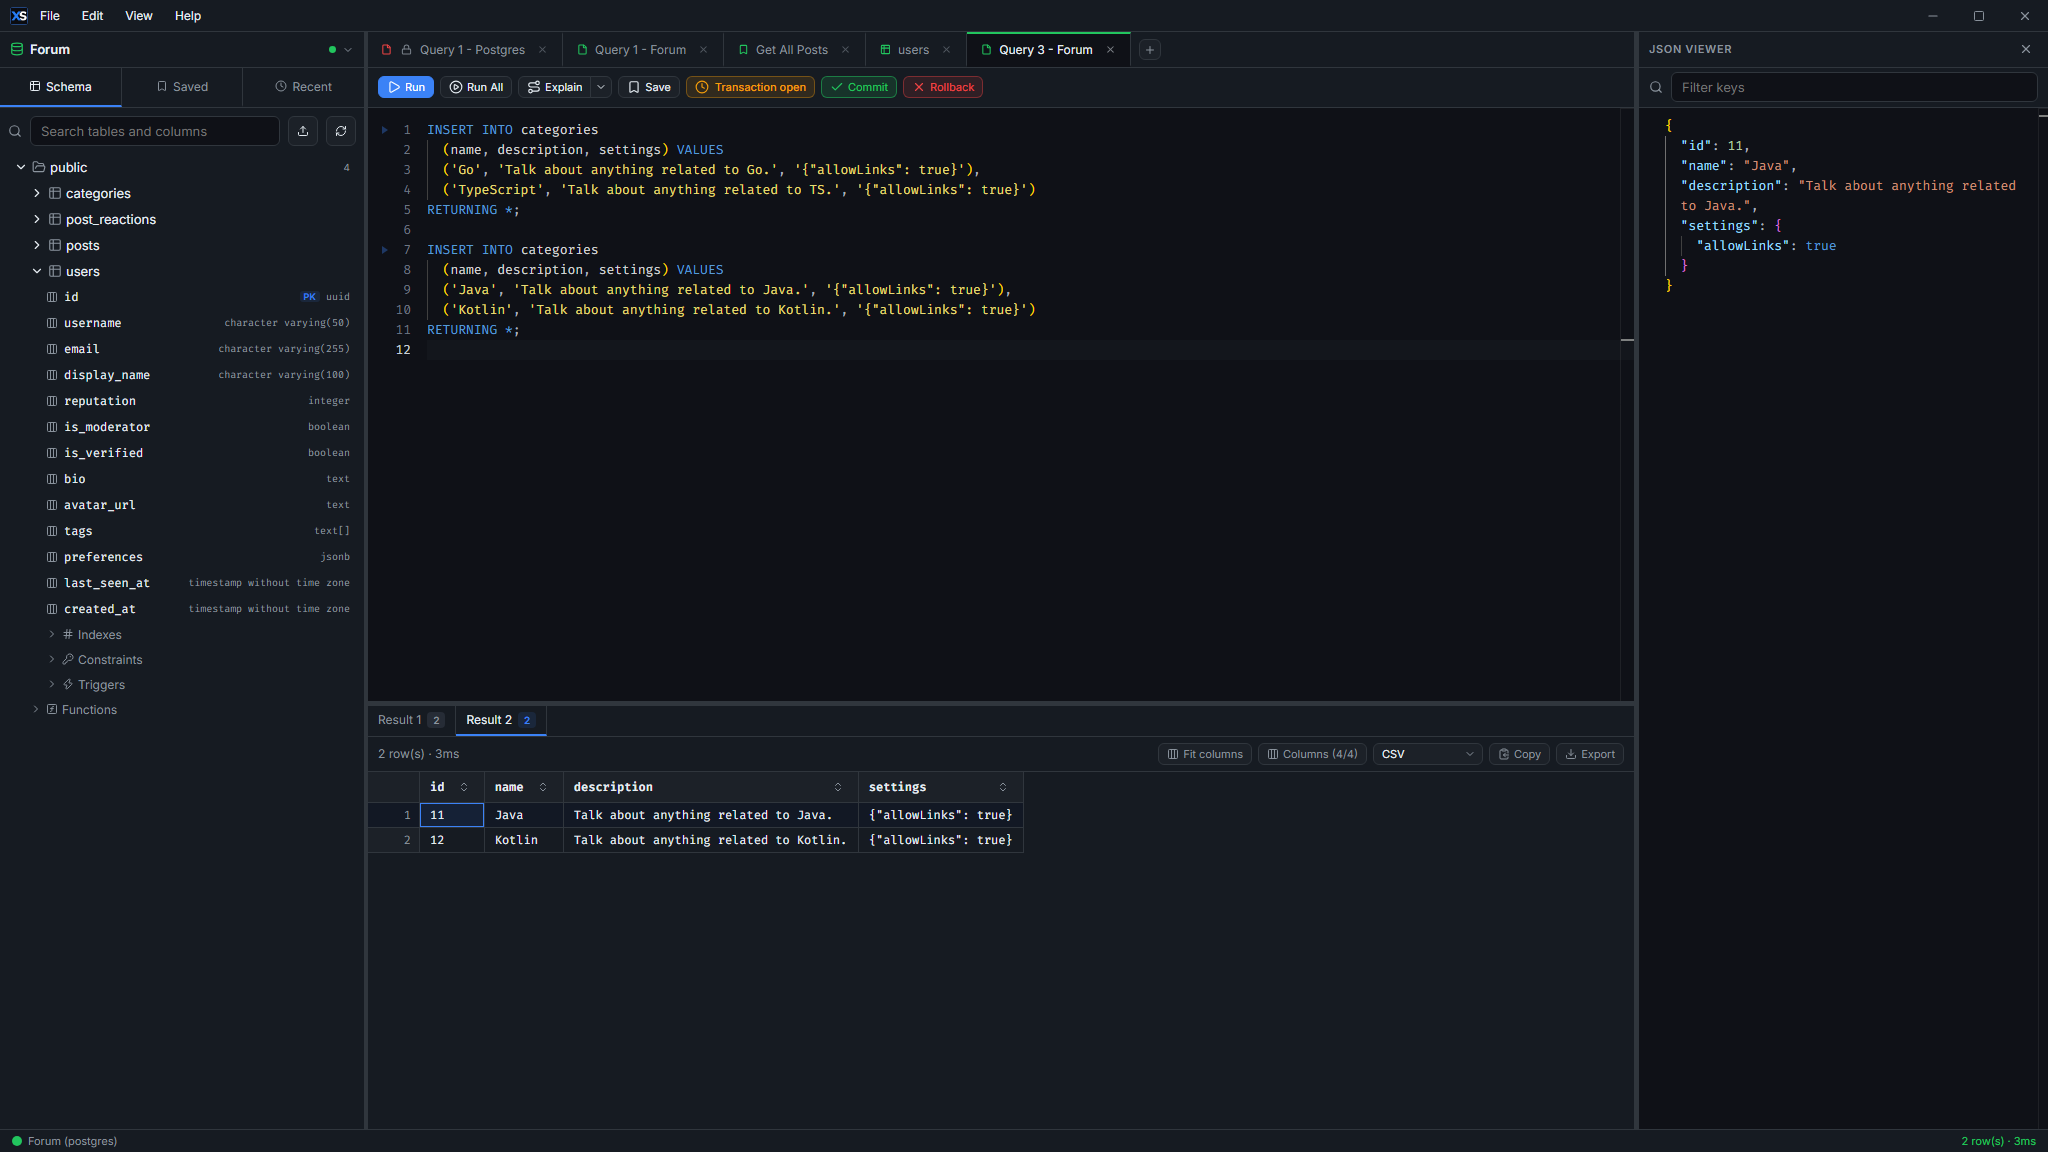
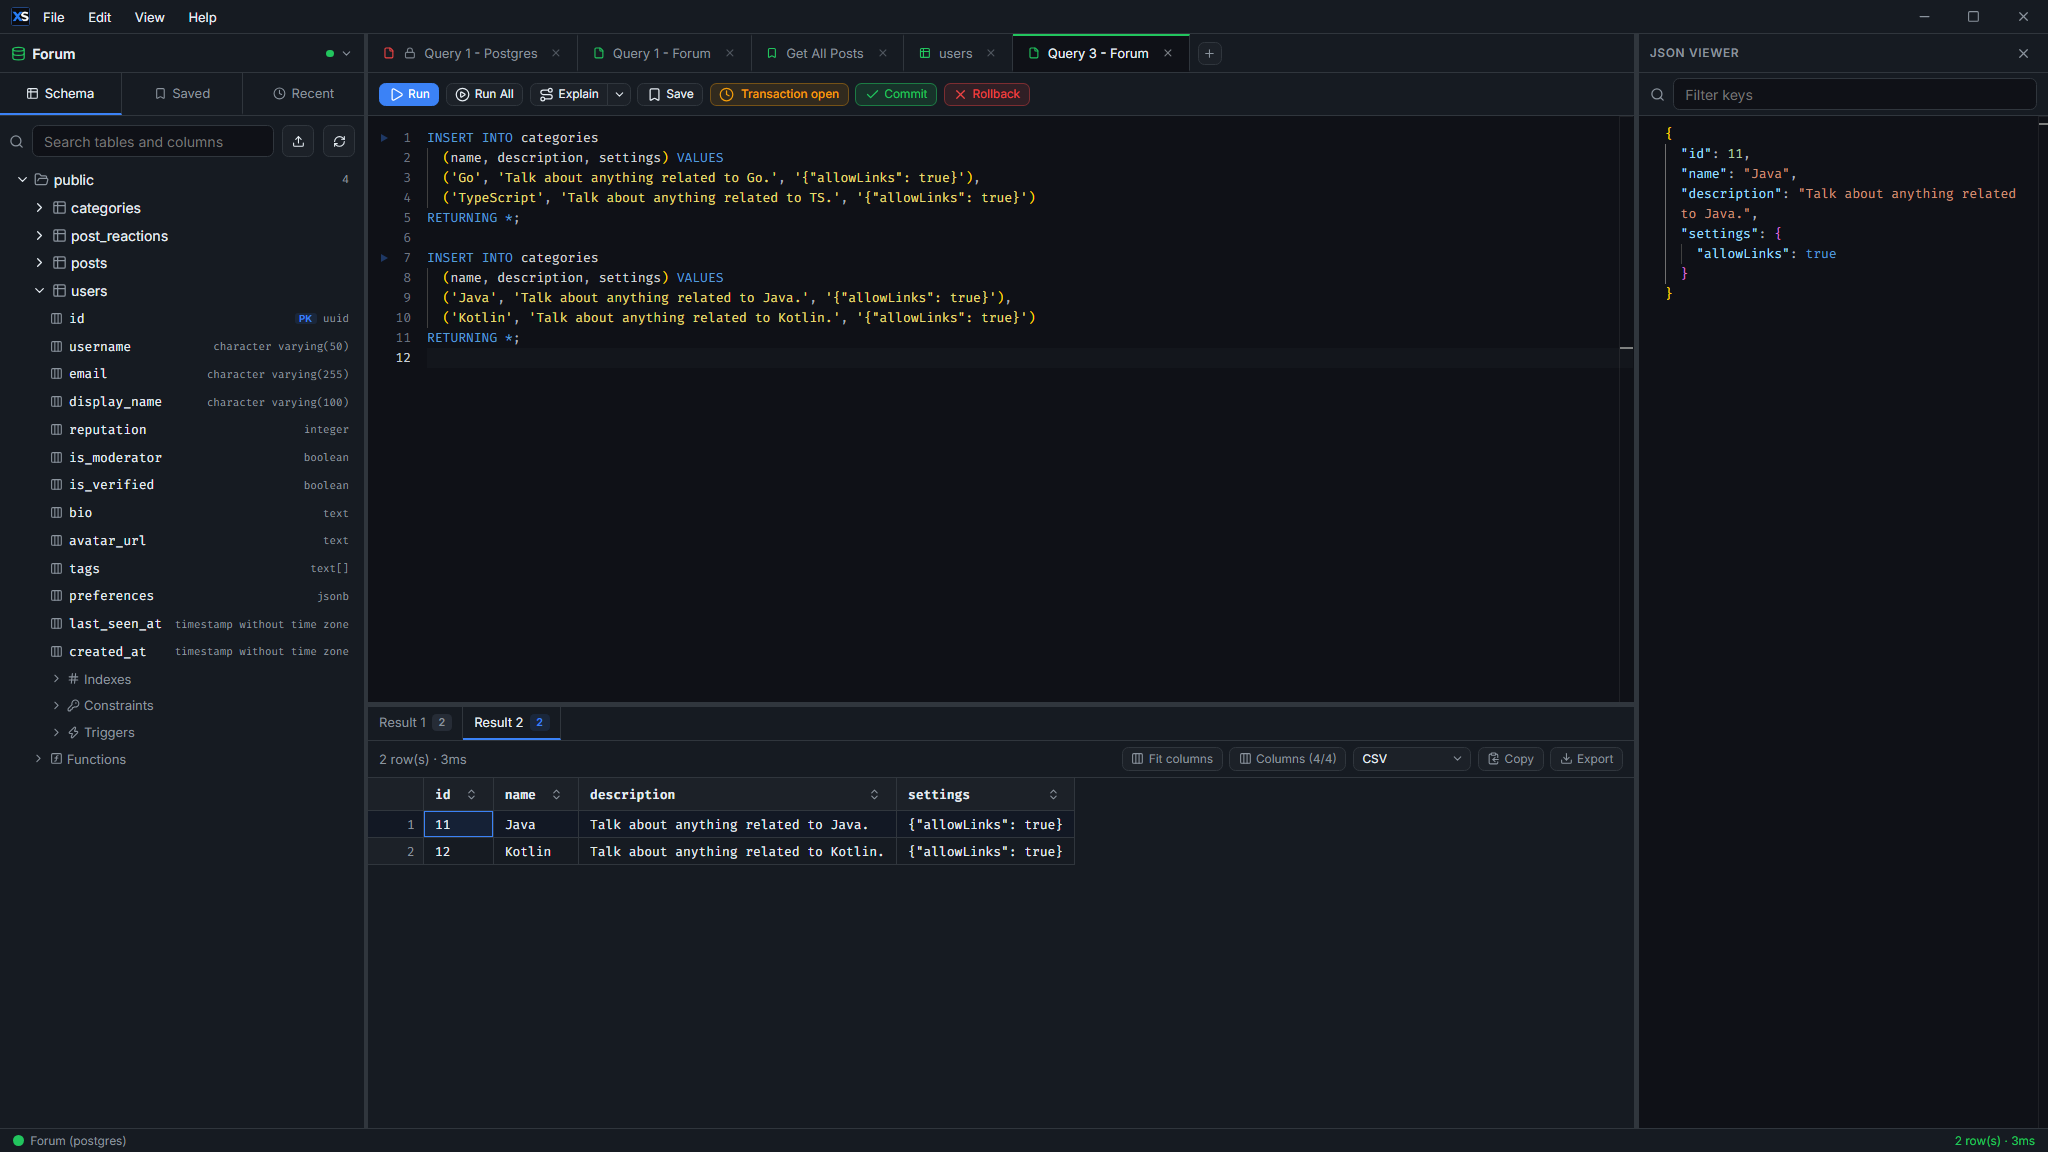
Udpated screenshots

diff --git a/e2e/screenshots/readme.spec.ts b/e2e/screenshots/readme.spec.ts
@@ -132,6 +132,15 @@ async function runPastedSql(page: Page, editor: { runAll: () => Promise<void> },
   await editor.runAll();
 }
 
+/** Demo settings: one UI Zoom step (default 100% → 108%). Leaves editor font size alone. */
+async function applyDemoZoom(page: Page): Promise<void> {
+  await openViewMenu(page);
+  await page.getByRole('button', { name: 'Zoom in', exact: true }).click();
+  await expect(page.getByText('108%', { exact: true })).toBeVisible();
+  await page.getByRole('button', { name: 'View', exact: true }).click();
+  await expect(page.getByRole('switch')).toBeHidden();
+}
+
 /** Demo settings.json: sidebar 364px, JSON viewer 410px (defaults are 280 / 320). */
 async function applyDemoPanelWidths(page: Page): Promise<void> {
   const SIDEBAR = 364;
@@ -166,9 +175,13 @@ async function applyDemoPanelWidths(page: Page): Promise<void> {
 
 /** expandColumns toggles — only click when columns are not already visible. */
 async function ensureUsersExpanded(schema: SchemaPage): Promise<void> {
-  if (await schema.columnRow('username').first().isVisible().catch(() => false)) return;
+  const username = schema.columnRow('username').first();
+  // SchemaPanel debounces search by 200ms. The input can be empty while the tree
+  // is still filtered — clicking then toggles an already-expanded table shut.
+  await schema.page.waitForTimeout(350);
+  if (await username.isVisible().catch(() => false)) return;
   await schema.expandColumns('users');
-  await expect(schema.columnRow('username').first()).toBeVisible();
+  await expect(username).toBeVisible();
 }
 
 /** Wait until Monaco has painted syntax tokens (avoids all-white JSON in the cell viewer). */
@@ -245,6 +258,7 @@ test.describe('README screenshots', () => {
     await ensureUsersExpanded(schema);
     await jsonViewer.open();
     await applyDemoPanelWidths(page);
+    await applyDemoZoom(page);
 
     // Sanity: tab colors / order
     await expect(page.locator('.editor-tab').nth(0).locator('.tab-title')).toHaveText('Query 1 - Postgres');
@@ -425,8 +439,8 @@ test.describe('README screenshots', () => {
     if ((await themeSwitch.getAttribute('aria-checked')) === 'true') {
       await themeSwitch.click();
     }
-    await page.getByRole('button', { name: 'Zoom in', exact: true }).click();
-    await expect(themeSwitch).toBeVisible();
+    // Already at 108% from applyDemoZoom — show that value in the View menu.
+    await expect(page.getByText('108%', { exact: true })).toBeVisible();
     await capture(page, '9.png');
   });
 });
